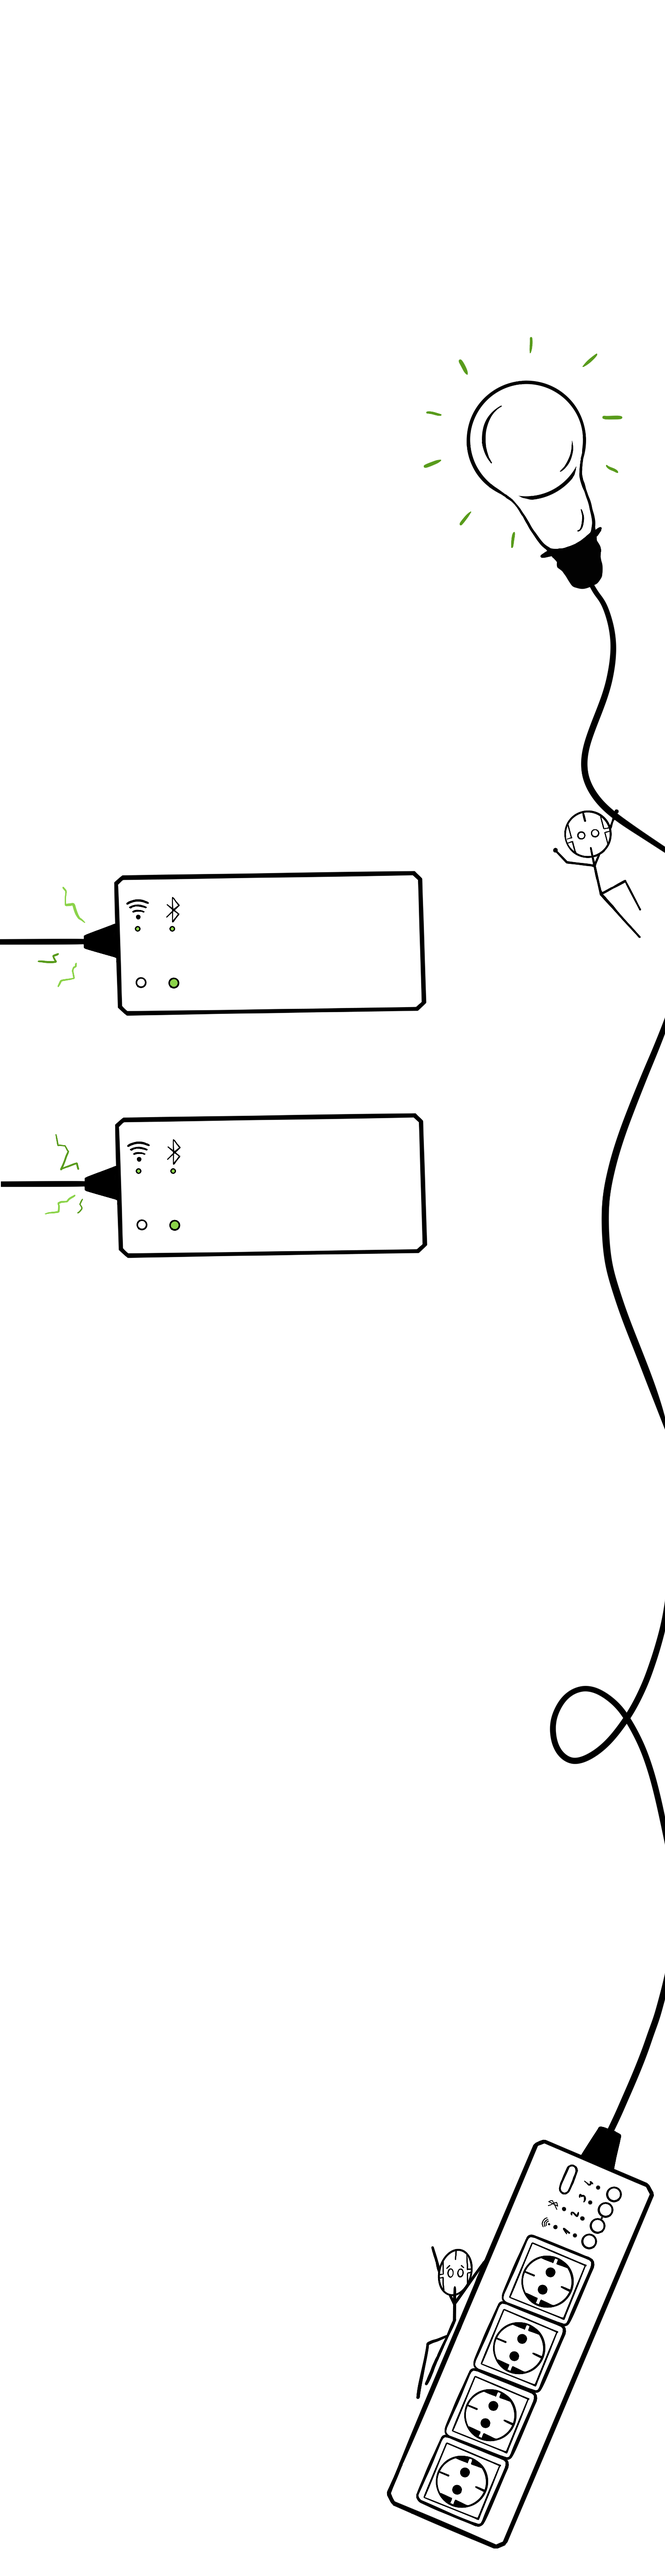
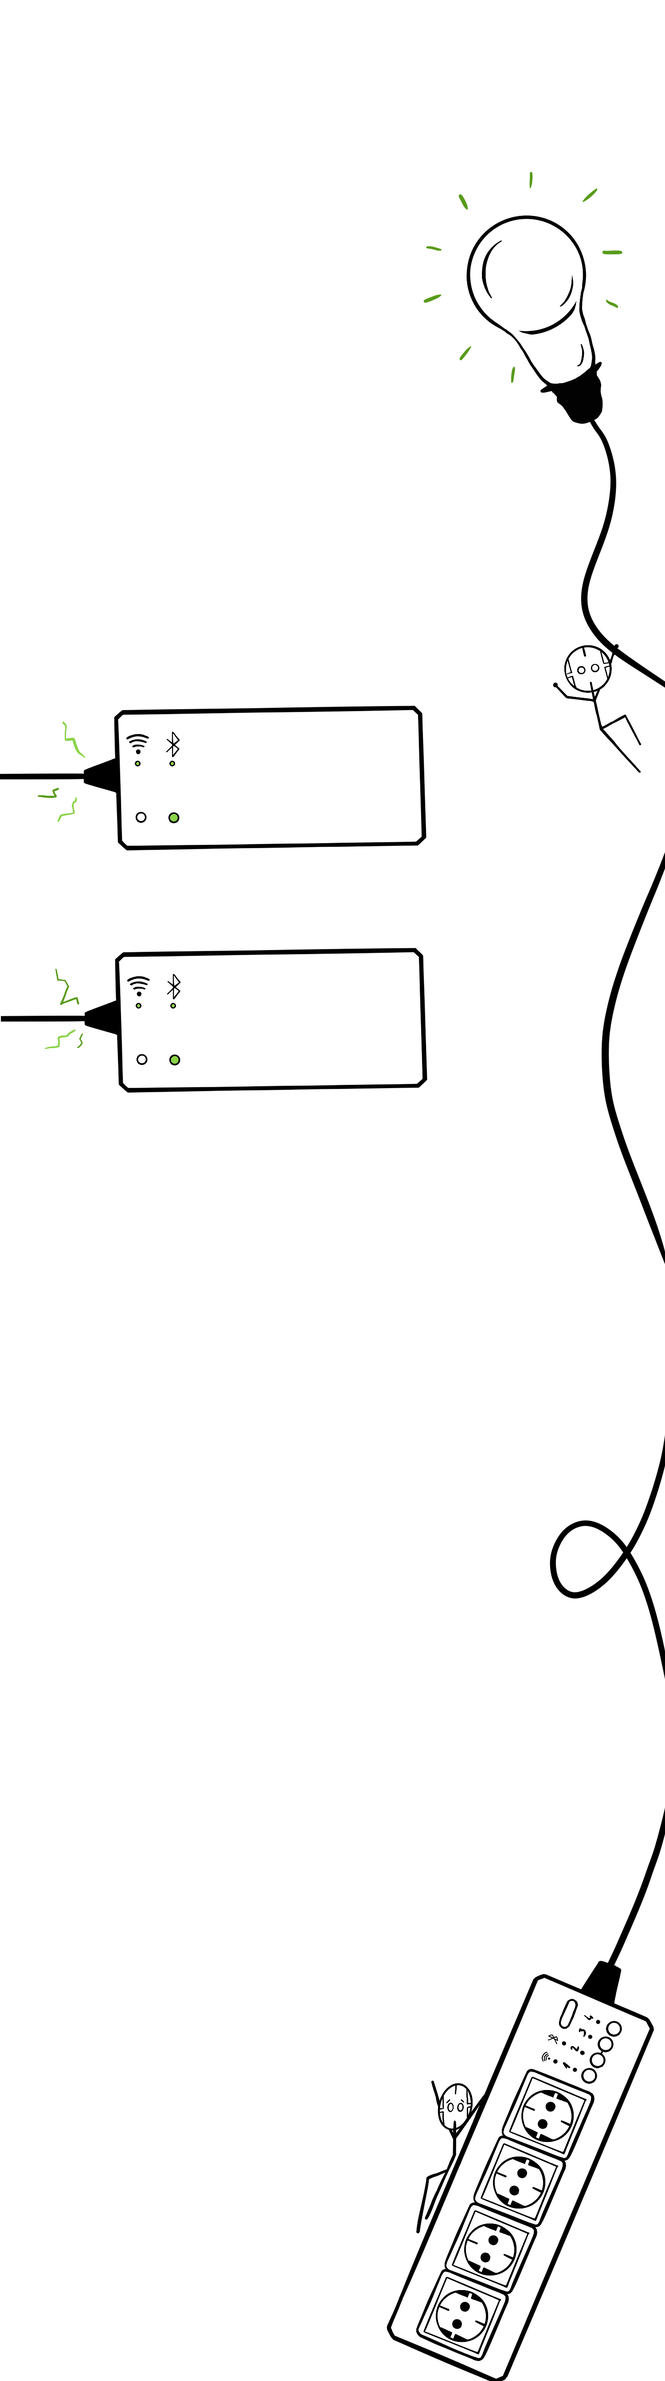
graficky blbosti

diff --git a/style.css b/style.css
@@ -1,14 +1,15 @@
 body {
     font-family: 'PT Sans', sans-serif;
-    background-image: url("obrazky/background.png"); /* jak nastavit, aby pozadí začínalo za headerem*/
+    background-image: url("obrazky/backgroundV2.png");
+    /* jak nastavit, aby pozadí začínalo za headerem*/
 }
 
-h1{
+h1 {
     text-align: center;
     font-size: 90px;
 }
 
-h2{
+h2 {
     font-size: 30pt;
     padding-left: 100px;
 }
@@ -83,7 +84,8 @@ header {
 .UvodDiv {
     height: 500px;
     width: 750px;
-    background-color: aqua; /* barva nemusí být vidět, jen pro "zarámování textu"*/
+    background-color: aqua;
+    /* barva nemusí být vidět, jen pro "zarámování textu"*/
     padding-left: 100px;
     font-size: 20pt;
     text-align: justify;
